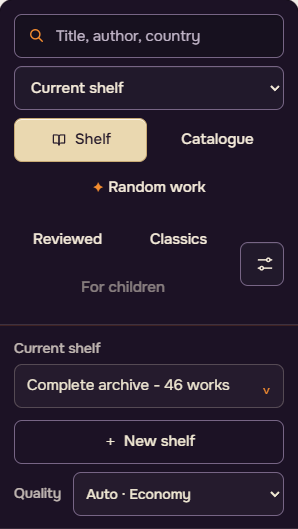
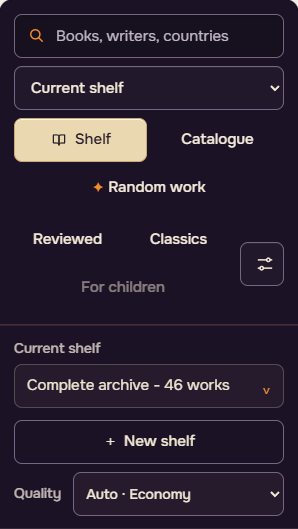
Reuse canonical shelf search copy and refresh final control evidence

Changed region(s): [[0.1812, 0.0605, 0.7852, 0.0907]]

diff --git a/src/i18n/stage5d1InterfaceCoverage.test.ts b/src/i18n/stage5d1InterfaceCoverage.test.ts
@@ -201,9 +201,11 @@ describe("Stage 5D-1 English interface coverage", () => {
       ...controlledOptionLabels,
     ]);
 
-    expect(componentPhrases.size).toBe(215);
+    // Search now reuses the existing books/writers/countries phrase, so the
+    // unique inventory no longer includes its old example-only placeholder.
+    expect(componentPhrases.size).toBe(214);
     expect(controlledOptionLabels.size).toBe(61);
-    expect(inventory.size).toBe(276);
+    expect(inventory.size).toBe(275);
     expect(
       [...IDENTICAL_SYMBOL_ALLOWLIST].filter((phrase) => !inventory.has(phrase))
     ).toEqual([]);
@@ -218,7 +220,7 @@ describe("Stage 5D-1 English interface coverage", () => {
       .filter((phrase) => hasInterfaceTranslation(phrase))
       .filter((phrase) => translateInterfaceText(phrase, "en") === phrase);
 
-    expect(translatable).toHaveLength(274);
+    expect(translatable).toHaveLength(273);
     expect(missing).toEqual([]);
     expect(untranslated).toEqual([]);
   });

diff --git a/src/i18n/InterfaceLanguage.tsx b/src/i18n/InterfaceLanguage.tsx
@@ -249,7 +249,6 @@ const englishInterfaceText: Record<string, string> = {
   "произведений из единой базы стран": "works from the unified country archive",
   "Поиск по книге, автору или стране": "Search by book, writer or country",
   "Например, Достоевский или Япония": "For example, Dostoevsky or Japan",
-  "Название, автор, страна": "Title, author, country",
   "Фильтры книжного архива": "Book archive filters",
   "Отбор архива": "Archive selection",
   "результатов": "results",

diff --git a/src/components/BookArchiveSection.tsx b/src/components/BookArchiveSection.tsx
@@ -3918,7 +3918,7 @@ export default function BookArchiveSection({
               setQuery(value);
             }}
             searchLabel={t("Поиск по книге, автору или стране")}
-            searchPlaceholder={t("Название, автор, страна")}
+            searchPlaceholder={t("Книги, авторы, страны")}
             searchScope={searchScope}
             onSearchScopeChange={setSearchScope}
             libraryScopeLabel={t("Текущая полка")}

diff --git a/reports/bookshelf-owner-evidence/legibility-refinement/controls.md b/reports/bookshelf-owner-evidence/legibility-refinement/controls.md
@@ -7,6 +7,7 @@ The toolbar uses one search-field focus frame, aligned 44px controls and quieter
 ## Verification
 
 - Public TypeScript and the 22-file typography audit pass.
+- Final local full unit run: 3030 passed, 4 skipped; no failures. Shared-language coverage checks every actual phrase, and the original 1425-field interface-copy catalogue remains unchanged. The shorter search placeholder reuses the existing books/writers/countries phrase, reducing the unique component phrase inventory by one.
 - The focused presentation and canonical-data checks pass after the additional exact UI projections; source bytes outside those projections keep their historical fingerprint.
 - The actual production build was measured at 1708, 1366, 768, 390 and 320px in both languages: all ten cases have zero document overflow, no clipped buttons and at least 44px button/select targets. The default filter rail has zero height. `controls.json` contains the full measurements.
 - The desktop and native mobile browser cases both pass for inspected and open books, including empty-click/tap closure, detail removal and focus restoration. Desktop additionally checks Alt-click, straight drag, and out-and-back drag within and beyond the canvas. The test is in `tests/e2e/stage5-baseline.spec.mjs` and runs in the existing serial WebGL suite.
